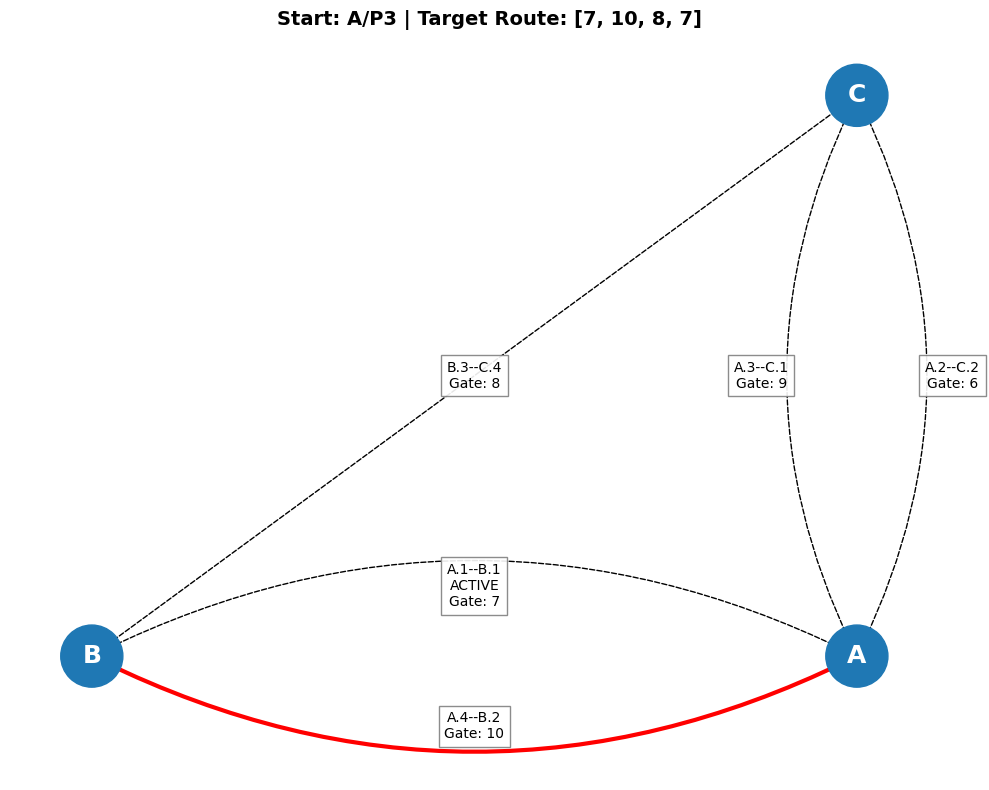
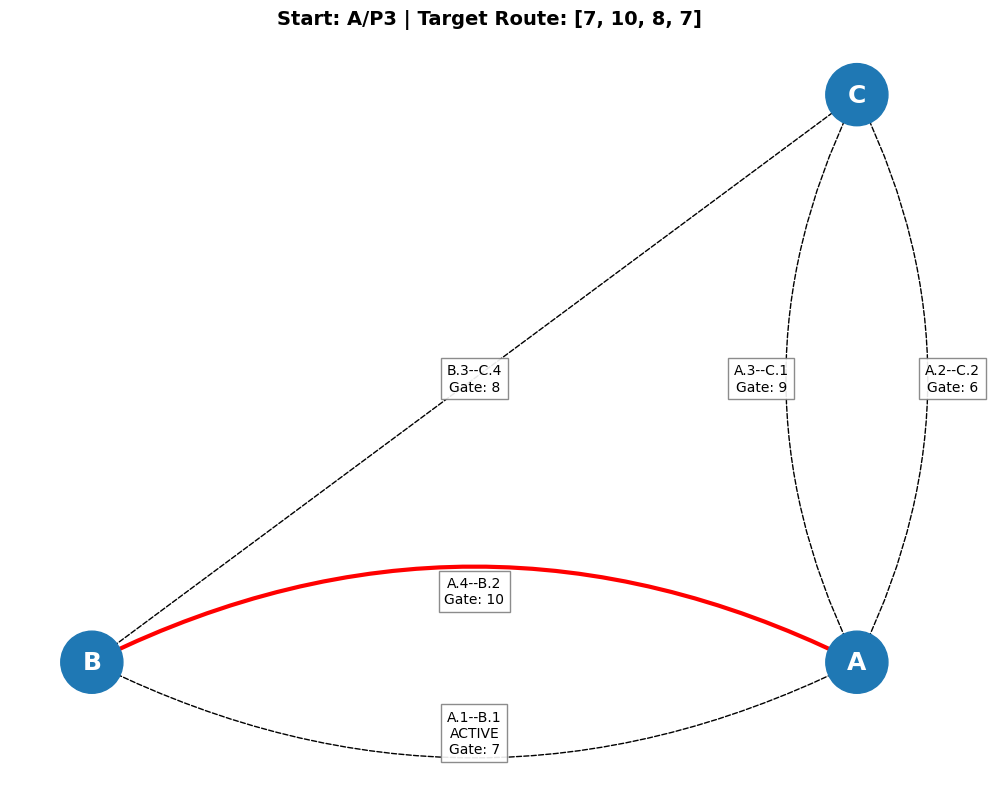
challange 3 anpassung - challange 4 anpasssung

diff --git a/src/packages/avoid_ducks/src/duck_avoidance_node.py b/src/packages/avoid_ducks/src/duck_avoidance_node.py
@@ -64,7 +64,7 @@ class DuckAvoidanceNode:
         self.zones_status = [{"white": False, "yellow": False, "duck": False} for _ in range(3)] # Status für Zone 1, 2, 3
         self.duck_bboxes = [] # Eingehende Enten [(x1,y1,x2,y2), ...]
         self.display_image = None
-        self.buffer_size = 3 #17
+        self.buffer_size = 6 #17
         # Puffer exklusiv für Zone 2
         self.z2_yellow_history = deque(maxlen=self.buffer_size)
         self.wiggle_direction = -1.0
@@ -211,14 +211,34 @@ class DuckAvoidanceNode:
         self.theta += dth
 
     def cb_ducks(self, msg):
-        # Extrahiere Boxen aus dem Polygon-Array (erwartet x1,y1,x2,y2 pro Ente)
-        self.duck_bboxes = []
+        now = time.monotonic()
+        incoming_boxes = []
         if len(msg.points) >= 4:
             for i in range(0, len(msg.points), 4):
-                # Min/Max bestimmen für sauberes Rect
                 xs = [msg.points[i+j].x for j in range(4)]
                 ys = [msg.points[i+j].y for j in range(4)]
-                self.duck_bboxes.append((int(min(xs)), int(min(ys)), int(max(xs)), int(max(ys))))
+                x1, y1, x2, y2 = int(min(xs)), int(min(ys)), int(max(xs)), int(max(ys))
+                incoming_boxes.append((x1, y1, x2, y2, now))
+                
+        # Merge eingehende Boxen mit bestehenden (verhindert Flackern einzelner Enten)
+        updated_boxes = list(incoming_boxes)
+        for old_box in self.duck_bboxes:
+            cx_old = (old_box[0] + old_box[2]) / 2.0
+            cy_old = (old_box[1] + old_box[3]) / 2.0
+            matched = False
+            for new_box in incoming_boxes:
+                cx_new = (new_box[0] + new_box[2]) / 2.0
+                cy_new = (new_box[1] + new_box[3]) / 2.0
+                dist = math.hypot(cx_old - cx_new, cy_old - cy_new)
+                if dist < 50: # Boxen sind nah genug, also ist es dieselbe Ente
+                    matched = True
+                    break
+            
+            # Wenn nicht gematcht, aber noch frisch (< 0.3s), weiter am Leben erhalten!
+            if not matched and (now - old_box[4] < 0.3):
+                updated_boxes.append(old_box)
+                
+        self.duck_bboxes = updated_boxes
 
     # ==========================================
     # 3. VISION & PERCEPTION LOOP
@@ -249,8 +269,12 @@ class DuckAvoidanceNode:
         mask_white = cv2.inRange(hsv, np.array(self.hsv_limits['white']['lower']), np.array(self.hsv_limits['white']['upper']))
         mask_yellow = cv2.inRange(hsv, np.array(self.hsv_limits['yellow']['lower']), np.array(self.hsv_limits['yellow']['upper']))
 
+        now = time.monotonic()
+        # Alte BBoxes aufräumen, falls sie länger als 0.3s nicht bestätigt wurden
+        self.duck_bboxes = [b for b in self.duck_bboxes if now - b[4] < 0.3]
+
         # 2. Enten aus der Gelb-Maske stanzen (manipulieren)
-        for (x1, y1, x2, y2) in self.duck_bboxes:
+        for (x1, y1, x2, y2, t) in self.duck_bboxes:
             cv2.rectangle(mask_yellow, (x1, y1), (x2, y2), 0, -1) # Setzt BBox-Bereich in Maske auf 0 (Schwarz)
             cv2.rectangle(undistorted, (x1, y1), (x2, y2), (0, 255, 0), 2) # Grün im Debug-Bild
 
@@ -259,7 +283,7 @@ class DuckAvoidanceNode:
         
         for i, (trap_pts, trap_poly) in enumerate(zip(self.trapezoids_2d, self.trapezoids_shapely)):
             # A) Enten-Kollision
-            for (x1, y1, x2, y2) in self.duck_bboxes:
+            for (x1, y1, x2, y2, t) in self.duck_bboxes:
                 if trap_poly.intersects(ShapelyBox(x1, y1, x2, y2)):
                     self.zones_status[i]["duck"] = True
                     break
@@ -391,7 +415,7 @@ class DuckAvoidanceNode:
                             self.escape_direction = -1.0
                             self.last_inversion_time = current_time
                         
-                        elif self.escape_direction == -1.0 and z1["white"]:
+                        elif self.escape_direction == -1.0 and z2["white"]:
                             rospy.logwarn("Rechtsdrehung wegen WEISS (z1) auf LINKS wechseln")
                             self.escape_direction = 1.0
                             self.last_inversion_time = current_time

diff --git a/src/packages/map_and_nav/src/navigator_node.py b/src/packages/map_and_nav/src/navigator_node.py
@@ -4,7 +4,9 @@ import json
 import os
 
 import rospy
-from std_msgs.msg import Bool, String
+import time
+from std_msgs.msg import Bool, String, Int32
+from duckietown_msgs.msg import Twist2DStamped
 from std_srvs.srv import Trigger, TriggerResponse
 
 from topological_graph import (
@@ -101,6 +103,26 @@ class NavigatorNode:
         self.pub_turn = rospy.Publisher(
             f"/{self.vehicle}/intersection/turn_decision",
             String,
+            queue_size=1,
+            latch=True,
+        )
+
+        self.pub_lane_switch = rospy.Publisher(
+            f"/{self.vehicle}/switch/lane_control",
+            Int32,
+            queue_size=1,
+            latch=True,
+        )
+
+        self.pub_cmd = rospy.Publisher(
+            f"/{self.vehicle}/car_cmd_switch_node/cmd",
+            Twist2DStamped,
+            queue_size=1,
+        )
+
+        self.pub_standby = rospy.Publisher(
+            f"/{self.vehicle}/switch/standby",
+            Bool,
             queue_size=1,
             latch=True,
         )
@@ -214,6 +236,7 @@ class NavigatorNode:
                 rospy.loginfo("Starte Route automatisch...")
                 self.plan_route(gates)
                 self.active = True
+                self.pub_lane_switch.publish(Int32(1))
                 self.publish_next_turn()
 
         except FileNotFoundError:
@@ -267,6 +290,8 @@ class NavigatorNode:
 
             self.active = True
 
+            self.pub_lane_switch.publish(Int32(1))
+
             self.publish_next_turn()
 
         except Exception as e:
@@ -281,6 +306,9 @@ class NavigatorNode:
     # ==============================================================
 
     def plan_route(self, target_gates):
+
+        # Wenn wir eine neue Route planen, wecken wir alles aus dem Standby auf
+        self.pub_standby.publish(Bool(False))
 
         self.route_steps = []
         self.target_gates = target_gates
@@ -384,6 +412,8 @@ class NavigatorNode:
 
             self.active = False
             self.active_step = None
+
+            self.perform_duck_dance_and_standby()
 
             return
 
@@ -553,6 +583,51 @@ class NavigatorNode:
             "target_gates": self.target_gates,
         }
         self.pub_status.publish(String(data=json.dumps(status)))
+
+    # ==============================================================
+    # Ententanz & Standby
+    # ==============================================================
+
+    def perform_duck_dance_and_standby(self):
+        rospy.loginfo("Navigation beendet. Pausiere Lane Control und starte Ententanz!")
+        
+        # Lane Control pausieren, damit wir die Motoren übernehmen können
+        self.pub_lane_switch.publish(Int32(0))
+        
+        start_time = time.time()
+        last_wiggle = start_time
+        wiggle_dir = -1.0
+        
+        rate = rospy.Rate(10)
+        while time.time() - start_time < 3.0 and not rospy.is_shutdown():
+            current_time = time.time()
+            if current_time - last_wiggle > 0.2:
+                wiggle_dir *= -1.0
+                last_wiggle = current_time
+                
+            cmd = Twist2DStamped()
+            cmd.header.stamp = rospy.Time.now()
+            # 0.08 war die wiggle_power im duck_avoidance_node
+            cmd.v = 1.0 * 0.08 * wiggle_dir
+            cmd.omega = 2.0 * wiggle_dir
+            
+            self.pub_cmd.publish(cmd)
+            rate.sleep()
+            
+        rospy.loginfo("Ententanz beendet. Gehe in STANDBY-Modus.")
+        self.pub_standby.publish(Bool(True))
+        
+        # Standby: Alles auf 0 setzen
+        cmd = Twist2DStamped()
+        cmd.header.stamp = rospy.Time.now()
+        cmd.v = 0.0
+        cmd.omega = 0.0
+        
+        for _ in range(5):
+            if rospy.is_shutdown():
+                break
+            self.pub_cmd.publish(cmd)
+            rospy.sleep(0.1)
 
     # ==============================================================
     # Start

diff --git a/src/packages/map_and_nav/src/switch_control_node.py b/src/packages/map_and_nav/src/switch_control_node.py
@@ -42,6 +42,13 @@ class SwitchControlNode:
         
         rospy.Subscriber(f"/{self._vehicle_name}/intersection/turn_decision", String, self.cbTurnDecision, queue_size=1)
         rospy.Subscriber(f"/{self._vehicle_name}/intersection/turn_completed", String, self.cbTurnCompleted, queue_size=1)
+        
+        rospy.Subscriber(f"/{self._vehicle_name}/switch/standby", Bool, self.cbStandby, queue_size=1)
+
+    def cbStandby(self, msg):
+        if msg.data:
+            rospy.loginfo("Externes Standby-Kommando empfangen. Schalte in den STANDBY-Modus.")
+            self.state = State.STANDBY
 
     def cbTurnDecision(self, msg):
         # Wenn wir noch im Standby sind, wachen wir auf, da wir jetzt ein Ziel haben!

diff --git a/src/packages/map_and_nav/src/debug_navigation_node.py b/src/packages/map_and_nav/src/debug_navigation_node.py
@@ -113,7 +113,11 @@ class DebugNavigationNode:
             if n_edges == 1:
                 curvatures = [0.0]
             elif n_edges == 2:
-                curvatures = [-0.25, 0.25]
+                # Kanten A1-B1 (Süd) und A4-B2 (Nord) visuell tauschen, damit es zur Realität passt
+                if pair == ("A", "B") or pair == ("B", "A"):
+                    curvatures = [0.25, -0.25]
+                else:
+                    curvatures = [-0.25, 0.25]
             elif n_edges == 3:
                 curvatures = [-0.35, 0.0, 0.35]
             else:
